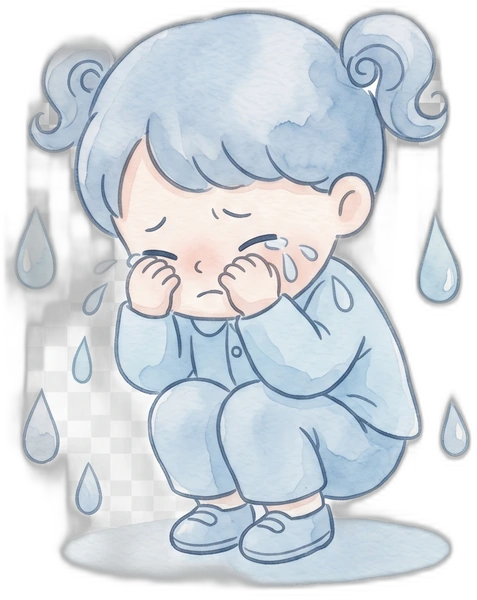
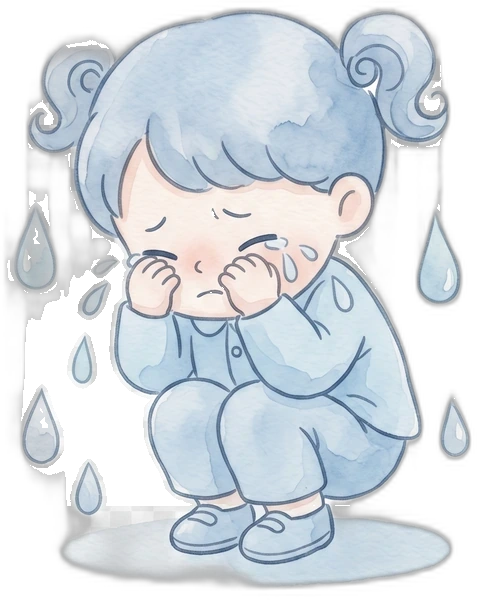
fix(art): 감정노드 누끼 잔상 제거 — 평온·슬픔 (v1.1.15)
- calm.webp: 좌상단 흰색 불투명 덩어리 제거(연결요소로 인물만 보존) + 인물에 맞춰 크롭(182×223) → #situFig height:160px에서 다른 감정처럼 프레임 꽉 차게 표시
- sorrow.webp: 인물 왼쪽 청회색 배경 얼룩 제거 — 본체(최대 연결요소)·파란 눈물방울 보호하고 무채색만 제거
- 자산이 sw.js CORE 프리캐시(캐시 우선)라 버전 범프 필수: sw.js CACHE·manifest·#appVer·?v= 동기화 1.1.14→1.1.15

diff --git a/index.html b/index.html
@@ -51,7 +51,7 @@
 
   <div class="hud">
     <div class="titlebar">
-      <div class="title">마음을 줍는 로봇 <span id="robotName" class="rn" title="이름 바꾸기"></span><span id="appVer" style="font-size:11px;opacity:.42;font-weight:400;margin-left:6px">v1.1.14</span></div>
+      <div class="title">마음을 줍는 로봇 <span id="robotName" class="rn" title="이름 바꾸기"></span><span id="appVer" style="font-size:11px;opacity:.42;font-weight:400;margin-left:6px">v1.1.15</span></div>
       <button id="muteBtn" title="소리 끄기" style="background:none;border:none;font-size:18px;cursor:pointer;padding:2px 6px;line-height:1;opacity:.8">🔊</button>
       <button id="authBtn" class="authbtn">구글 로그인</button>
     </div>
@@ -474,17 +474,17 @@
      index.html은 항상 신선(max-age=0)하니, 버전을 올린 새 URL을 참조하면 캐시 안 탄 새 JS를 받는다.
      🔢 코드 수정 시 버전 범프할 때 이 ?v=값도 sw.js CACHE·manifest·#appVer와 함께 1.1.N으로 올릴 것. -->
 <script src="vendor/supabase.js"></script>
-<script src="data.js?v=1.1.14"></script>
-<script src="balance.js?v=1.1.14"></script>
-<script src="engine.js?v=1.1.14"></script>
-<script src="view.js?v=1.1.14"></script>
-<script src="save-auth.js?v=1.1.14"></script>
-<script src="onboarding.js?v=1.1.14"></script>
-<script src="main.js?v=1.1.14"></script>
+<script src="data.js?v=1.1.15"></script>
+<script src="balance.js?v=1.1.15"></script>
+<script src="engine.js?v=1.1.15"></script>
+<script src="view.js?v=1.1.15"></script>
+<script src="save-auth.js?v=1.1.15"></script>
+<script src="onboarding.js?v=1.1.15"></script>
+<script src="main.js?v=1.1.15"></script>
 <script>
   /* PWA 서비스워커 등록 (오프라인 플레이 + 설치 가능) */
   if ("serviceWorker" in navigator) {
-    window.addEventListener("load", () => navigator.serviceWorker.register("sw.js?v=1.1.14").catch(()=>{}));  // ?v= 캐시버스터로 새 SW 강제 픽업(엣지 4시간 캐시 우회)
+    window.addEventListener("load", () => navigator.serviceWorker.register("sw.js?v=1.1.15").catch(()=>{}));  // ?v= 캐시버스터로 새 SW 강제 픽업(엣지 4시간 캐시 우회)
   }
 </script>
 </body>

diff --git a/sw.js b/sw.js
@@ -2,7 +2,7 @@
 // ⚠ 버전 = 앱 버전(semver). data.js·balance.js·index.html 등 '캐시 자산'을 고치면 반드시 올려라(1.0.6→1.0.7…).
 // SW가 스크립트를 '캐시 우선'으로 서빙하므로, 안 올리면 고쳐도 옛 캐시가 나간다(stale). plan.md ④
 // 🔢 버전 올릴 때 3곳 동기화: 이 CACHE · manifest.json "version" · index.html #appVer 표시.
-const CACHE = "aingan-1.1.14";
+const CACHE = "aingan-1.1.15";
 const CORE = [
   "./", "./index.html", "./styles.css", "./manifest.json",
   "./data.js", "./balance.js",            // 전역 데이터·밸런스(인라인보다 먼저 로드) — 오프라인 프리캐시
